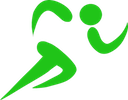
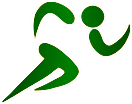
Updated images for the Learn page and updated Hour of Code page prototype.

Changed region(s): [[0.2188, 0.0, 1.0, 0.54], [0.0, 0.39, 0.625, 1.0]]

diff --git a/quorum/libraries/static/css/style.css b/quorum/libraries/static/css/style.css
@@ -1,0 +1,167 @@
+/*Hour of Code additions*/
+
+#sidebar-navigation {
+    display: inline-block;
+    vertical-align: top;
+    box-sizing: border-box;
+    width: 20%;
+    background-color: rgba(255,255,255,.75);
+    border: solid 1px lightgrey;
+}
+
+#sidebar-navigation ul {
+    margin-left: 0px;
+}
+
+.sidebar-link {
+    display: block;
+    height: 20px;
+    vertical-align: middle;
+    padding: 10px 0 10px 20px;
+}
+
+#sidebar-navigation a {
+    outline: 0;
+    transition: none;
+}
+
+#sidebar-navigation a:hover {
+    text-decoration: none;
+    color: white;
+}
+
+#sidebar-navigation a:visited {
+    color: black;
+}
+
+#sidebar-navigation li:hover {
+    background-color: #049CDB !important;
+    color: white !important;
+}
+
+
+
+#video-container {
+    display: inline-block;
+    vertical-align: top;
+    width: 468px;
+    box-sizing: border-box;
+    margin-left: 4px;
+}
+
+
+
+#hour-of-code-IDE {
+    width:40%;
+    height:351px;
+    display: inline-block;
+    vertical-align: top;
+    box-sizing: border-box;
+    border: solid 1px lightgrey;
+    background: #EEEEEE;
+    margin-left: 4px;
+    overflow: hidden;
+}
+
+#hour-of-code-IDE h2 {
+    margin: 0;
+    background: #0088cc;
+    padding: 5px 10px;
+    color: #EEEEEE;
+    text-shadow: 1px 1px 1px darken(#0088cc, 30%);
+}
+
+span.hour-of-code-IDE-subtitle {
+    vertical-align: middle;
+    font-size: 14px;
+    font-weight: 300;
+    color: #FFFFFF;
+    display: inline-block;
+    line-height: 20px;
+    margin: 0;
+    padding-bottom: 6px;
+    position: relative;
+    top: 2px;
+    text-shadow: 0 0 0;
+}
+
+#hour-of-code-IDE-input {
+    display: block;
+    width: 100%;
+    min-height:210px;
+    resize:none;
+    font-family: Menlo, monospace;
+    text-align: left;
+    overflow: scroll;
+    overflow-y: scroll; 
+    overflow-x: hidden;	
+    overflow:-moz-scrollbars-vertical;
+    border-radius: 0;
+    border-right: none;
+    border-left: none;
+    border-bottom: solid 1px lightgrey;
+    margin: 0;
+    padding-bottom: 10px;
+}
+
+#hour-of-code-IDE-output {
+    display: inline-block;
+    box-sizing: border-box;
+    width: 88%;
+    vertical-align: top;
+    height: 89px;
+    text-align: left;
+    overflow: scroll;
+    overflow-x: scroll; 
+    overflow-y: scroll;	
+    -ms-overflow-x: scroll;
+    -ms-overflow-y: scroll;
+    overflow:-moz-scrollbars-horizontal;
+    overflow:-moz-scrollbars-vertical;
+    border-radius: 0;
+    border: none;
+    margin: 0;
+    padding: 4px 0px 4px 6px;
+}
+
+#run-button {
+    display: inline-block;
+    box-sizing: border-box;
+    height: 89px;
+    width: 12%;
+    vertical-align: top;
+    padding-top: 4px;
+    background-color: #F5F5F5;
+}
+
+#run-button a {
+    outline: none;
+}
+
+#related-content {
+    display: block;
+    vertical-align: top;
+    box-sizing: border-box;
+    width: 100%;
+    margin-top: 4px;
+    background-color: rgba(255,255,255,.75);
+    border: solid 1px lightgrey;
+    margin-bottom: 10px;
+}
+
+#related-content h1 {
+    margin: 0;
+    box-sizing: border-box;
+    color: #333;
+    width: 100%;
+    padding: 4px;
+    text-align: center;
+    border-bottom: solid 1px lightgrey;
+}
+
+.related-content-list-item {
+    display: block;
+    height: 20px;
+    vertical-align: middle;
+    padding: 10px 0 10px 20px;
+}

diff --git a/quorum/libraries/static/js/global.js b/quorum/libraries/static/js/global.js
@@ -460,6 +460,33 @@ var submitCodeSample = function(){
 			}
 		});
 	})
+        
+        $("#run-button a").on("click", function(e) {
+		e.preventDefault();
+		$(".outputArea").text("");
+		
+		var codeData = {code: $(".inputArea").val()};
+		console.log(codeData);
+		$.ajax({
+			type: "POST",
+			url: "controllers/IDE.controller.php",
+			data: codeData,
+			success: function(result){
+				var start = 0;
+				result.indexOf("|") > 0  ? start = result.indexOf("|")+1 : start = 0;
+				var output = result.substring(start, result.length-1);
+				console.log(output);
+				//$(".outputArea").text(output);
+                                //document.getElementById("myDiv").innerHTML='<script type="text/javascript" id="runscript">alert("This alert was produced from the AJAX call");<\/script>';
+                                var value = eval(output);
+                                $(".outputArea").text(value);
+			},
+			error: function (xhr, ajaxOptions, thrownError) {
+				console.log(xhr, ajaxOptions, thrownError);
+                                $(".outputArea").text("Suck it");
+			}
+		});
+	})
 }
 
 

diff --git a/quorum/libraries/static/css/cache.css b/quorum/libraries/static/css/cache.css
@@ -1130,43 +1130,3 @@ div#library-info table.library-info td.label-row {
 .badges-list .quorum-badge:hover span.title {
   display: block;
 }
-
-/*Hour of Code additions*/
-
-/*#sidebar-navigation {
-    display: inline-block;
-    box-sizing: border-box;
-    width: 20%;
-    background-color: rgba(255,255,255,.75);
-    border: solid 1px lightgrey;
-}
-
-#sidebar-navigation ul {
-    margin-left: 0px;
-}
-
-.sidebar-link {
-    display: block;
-    height: 20px;
-    vertical-align: middle;
-    padding: 10px 0 10px 20px;
-}
-
-#sidebar-navigation a {
-    outline: 0;
-    transition: none;
-}
-
-#sidebar-navigation a:hover {
-    text-decoration: none;
-    color: white;
-}
-
-#sidebar-navigation a:visited {
-    color: black;
-}
-
-#sidebar-navigation li:hover {
-    background-color: #049CDB;
-    color: white;
-}*/

diff --git a/quorum/libraries/documents/hourofcode/part1.php b/quorum/libraries/documents/hourofcode/part1.php
@@ -1,35 +1,57 @@
-<?php include("../../static/templates/pageheader.template.php"); ?> 
+<?php include("../../static/templates/pageheader.template.php"); ?>
 
 <div class="hero-unit">
 	<div class="hero-unit-container">
-		<h1>Hour of Code : Part 1</h1>
+		<h1>Hour of Code: Part 1</h1>
+                <p>Output Statements</p>
 	</div>
 </div>
-    <?php include("../../static/templates/contentwrapperheader.template.php"); ?>
+  <?php include("../../static/templates/contentwrapperheader.template.php"); ?>
 
-<div id ="sidebar-navigation">
+<div id="sidebar-navigation">
     <ul>
-        <a href="#"><li id = "sidebar-intro" class = "sidebar-link">Introduction</li></a>
-        <a href="#"><li id = "sidebar-part1" class = "sidebar-link">Part 1: Output Statements</li></a>
-        <a href="#"><li id = "sidebar-part2" class = "sidebar-link">Part 2: Something Cool</li></a>
-        <a href="#"><li id = "sidebar-part3" class = "sidebar-link">Part 3: Something Rad</li></a>
-        <a href="#"><li id = "sidebar-part4" class = "sidebar-link">Part 4: Something Awesome</li></a>
-        <a href="#"><li id = "sidebar-part5" class = "sidebar-link">Part 5: Something Something</li></a>
+        <a href="#"><li id="sidebar-introduction" class="sidebar-link">Introduction</li></a>
+        <a href="part1.php"><li id="sidebar-part1" class="sidebar-link">Part 1: Output Statements</li></a>
+        <a href="#"><li id="sidebar-part2" class="sidebar-link">Part 2: Something Cool</li></a>
+        <a href="#"><li id="sidebar-part3" class="sidebar-link">Part 3: Something Rad</li></a>
+        <a href="#"><li id="sidebar-part4" class="sidebar-link">Part 4: Something Awesome</li></a>
+        <a href="#"><li id="sidebar-part5" class="sidebar-link">Part 5: Something Something</li></a>
     </ul>    
+</div><div id="video-container">
+    <iframe width="468" height="351" src="//www.youtube.com/embed/dqaDSlYdRcs?rel=0" frameborder="0" allowfullscreen></iframe>
+</div><div id="hour-of-code-IDE">
+    <h2>Try It! <span class="hour-of-code-IDE-subtitle">Enter Quorum code below and press "Run" to execute it</span></h2>
+    <div id="hour-of-code-IDE-controller">
+    </div>
+        <textarea id="hour-of-code-IDE-input" class="ide inputArea">output "Hello, Science!"</textarea>
+        
+        <pre id="hour-of-code-IDE-output" class="outputArea"></pre><div id="run-button" class="btn-group">
+                <a class="btn btn-success" href="#">Run</a>
+        </div></div><div id="related-content">
+    <h1>Related Content</h1>
+    <ul>
+        <a href="#"><li class="related-content-list-item">Placeholder Links</li></a>
+        <a href="#"><li class="related-content-list-item">Lorem Ipsum</li></a>
+        <a href="#"><li class="related-content-list-item">Related Content or something</li></a>
+        <a href="#"><li class="related-content-list-item">Long striiiiiiiiiiiiiiiiiiiiiiiiiiiiiiiiiiiiiiiiiiiiiiiiing</li></a>
+        <a href="#"><li class="related-content-list-item">This may lead to somewhere useful if you wish to learn more on the current subject</li></a>
+        <a href="#"><li class="related-content-list-item">This link is very special</li></a>
+        <a href="#"><li class="related-content-list-item">Suck it</li></a>
+    </ul>
 </div>
 
-<!--<script type="text/javascript">
+<?php include("../../static/templates/pagefooter.template.php"); ?>
+
+<script type="text/javascript">
     document.title = 'Hour of Code Part 1 | Quorum Programming Language';
     
     var url = window.location.pathname.substring(window.location.pathname.indexOf("hourofcode/") + "hourofcode/".length, window.location.pathname.indexOf(".php"));
 
-
-var arr = ["intro", "part1", "part2", "part3", "part4", "part5"];
+var arr = ["introduction", "part1", "part2", "part3", "part4", "part5"];
 
 for(var i = 0; i < arr.length; i++)
 {
         if(url == arr[i])
-                $("#sidebar-".concat(arr[i]) ).css([{"background-color":"rgb(235,235,235);", "color":"#049CDB"}]);
+                $("#sidebar-".concat(arr[i])).css({"background-color":"rgb(235,235,235)", "color":"#049CDB"});
 }
-    
-</script>-->
+</script>

diff --git a/quorum/libraries/static/css/style.php b/quorum/libraries/static/css/style.php
@@ -12,7 +12,8 @@ $files = array(
     'libraries.less',
     'librarysubmissions.less',
     'index.less',
-    'controlpanel.less'
+    'controlpanel.less',
+    'style.css'
 );
 
 $time = mktime(0,0,0,21,5,1980);

diff --git a/quorum/libraries/documents/curriculum/chapter2/lab2_2.php b/quorum/libraries/documents/curriculum/chapter2/lab2_2.php
@@ -10,6 +10,7 @@
 	</div>
 </div>
 
+    <?php include("../../../static/templates/contentwrapperheader.template.php"); ?>
 <!--<h1>Lab 2.2: Math, Output and User Input</h1>-->
 <h2>Objectives</h2>
 <p>

diff --git a/quorum/libraries/documents/curriculum/chapter2/lab2_3.php b/quorum/libraries/documents/curriculum/chapter2/lab2_3.php
@@ -10,6 +10,7 @@
 	</div>
 </div>
 
+    <?php include("../../../static/templates/contentwrapperheader.template.php"); ?>
 <!--<h1><b>Lab 2.3: Music</b></h1>-->
 <h2>Objectives</h2>
 <p>
